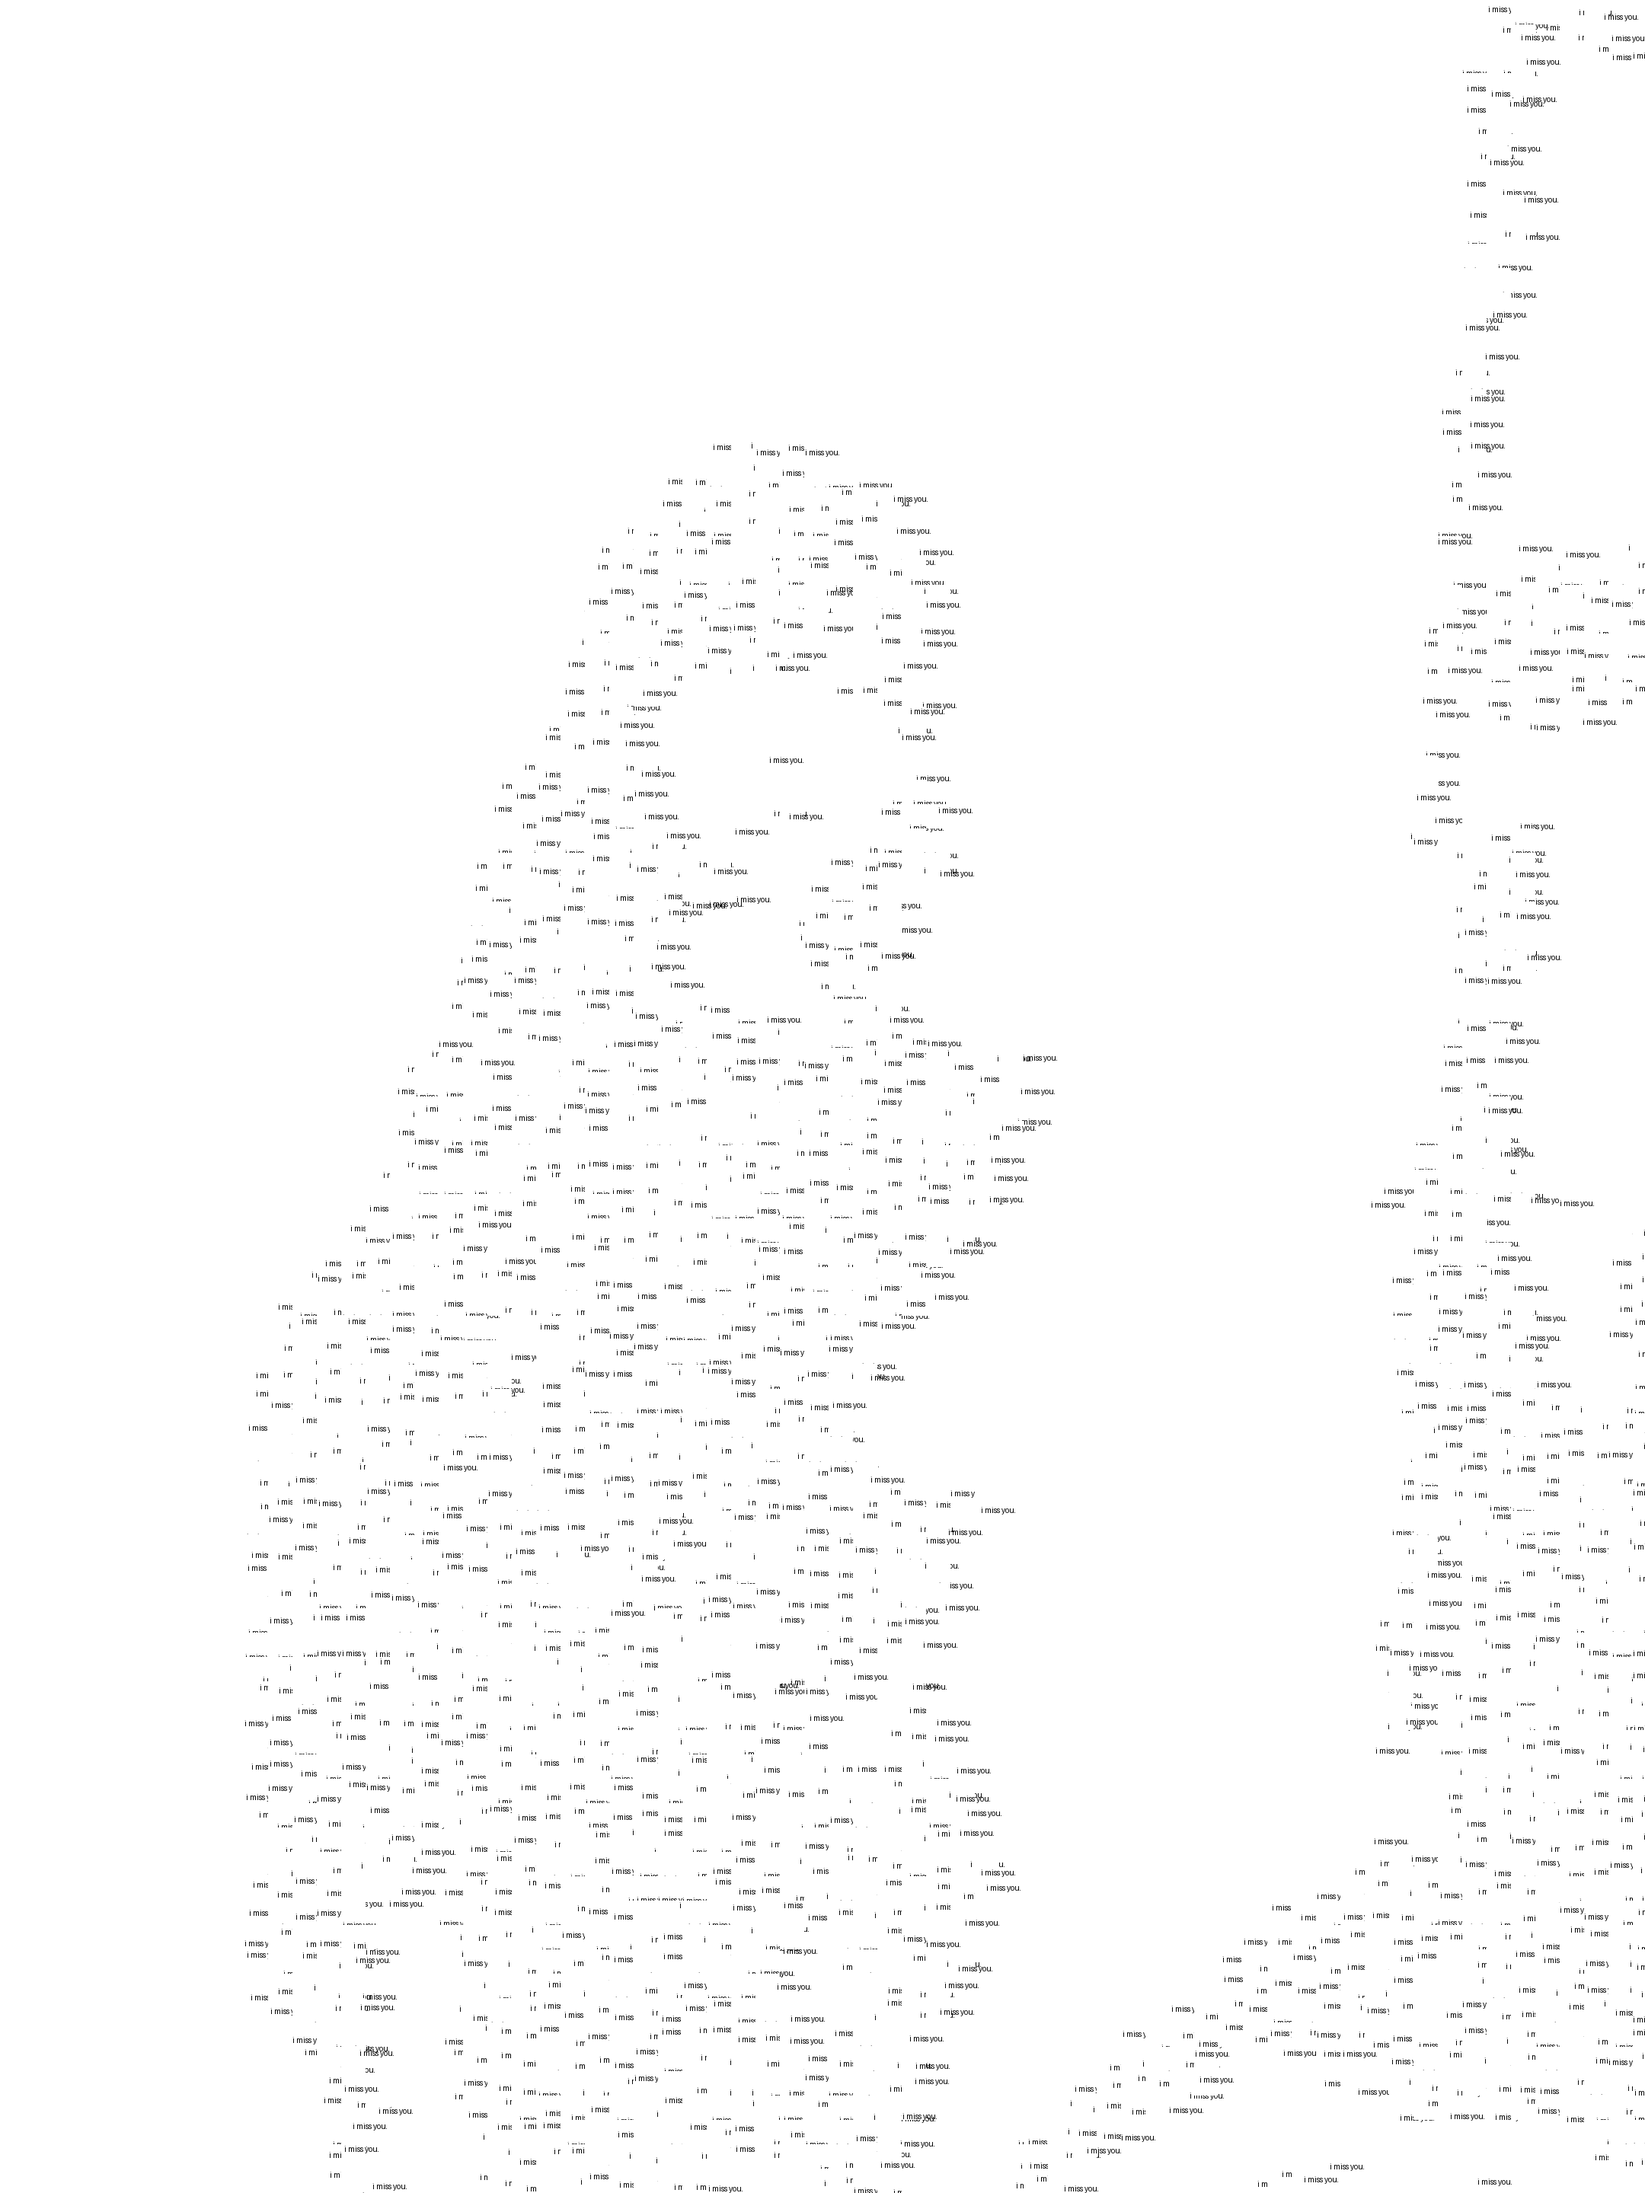
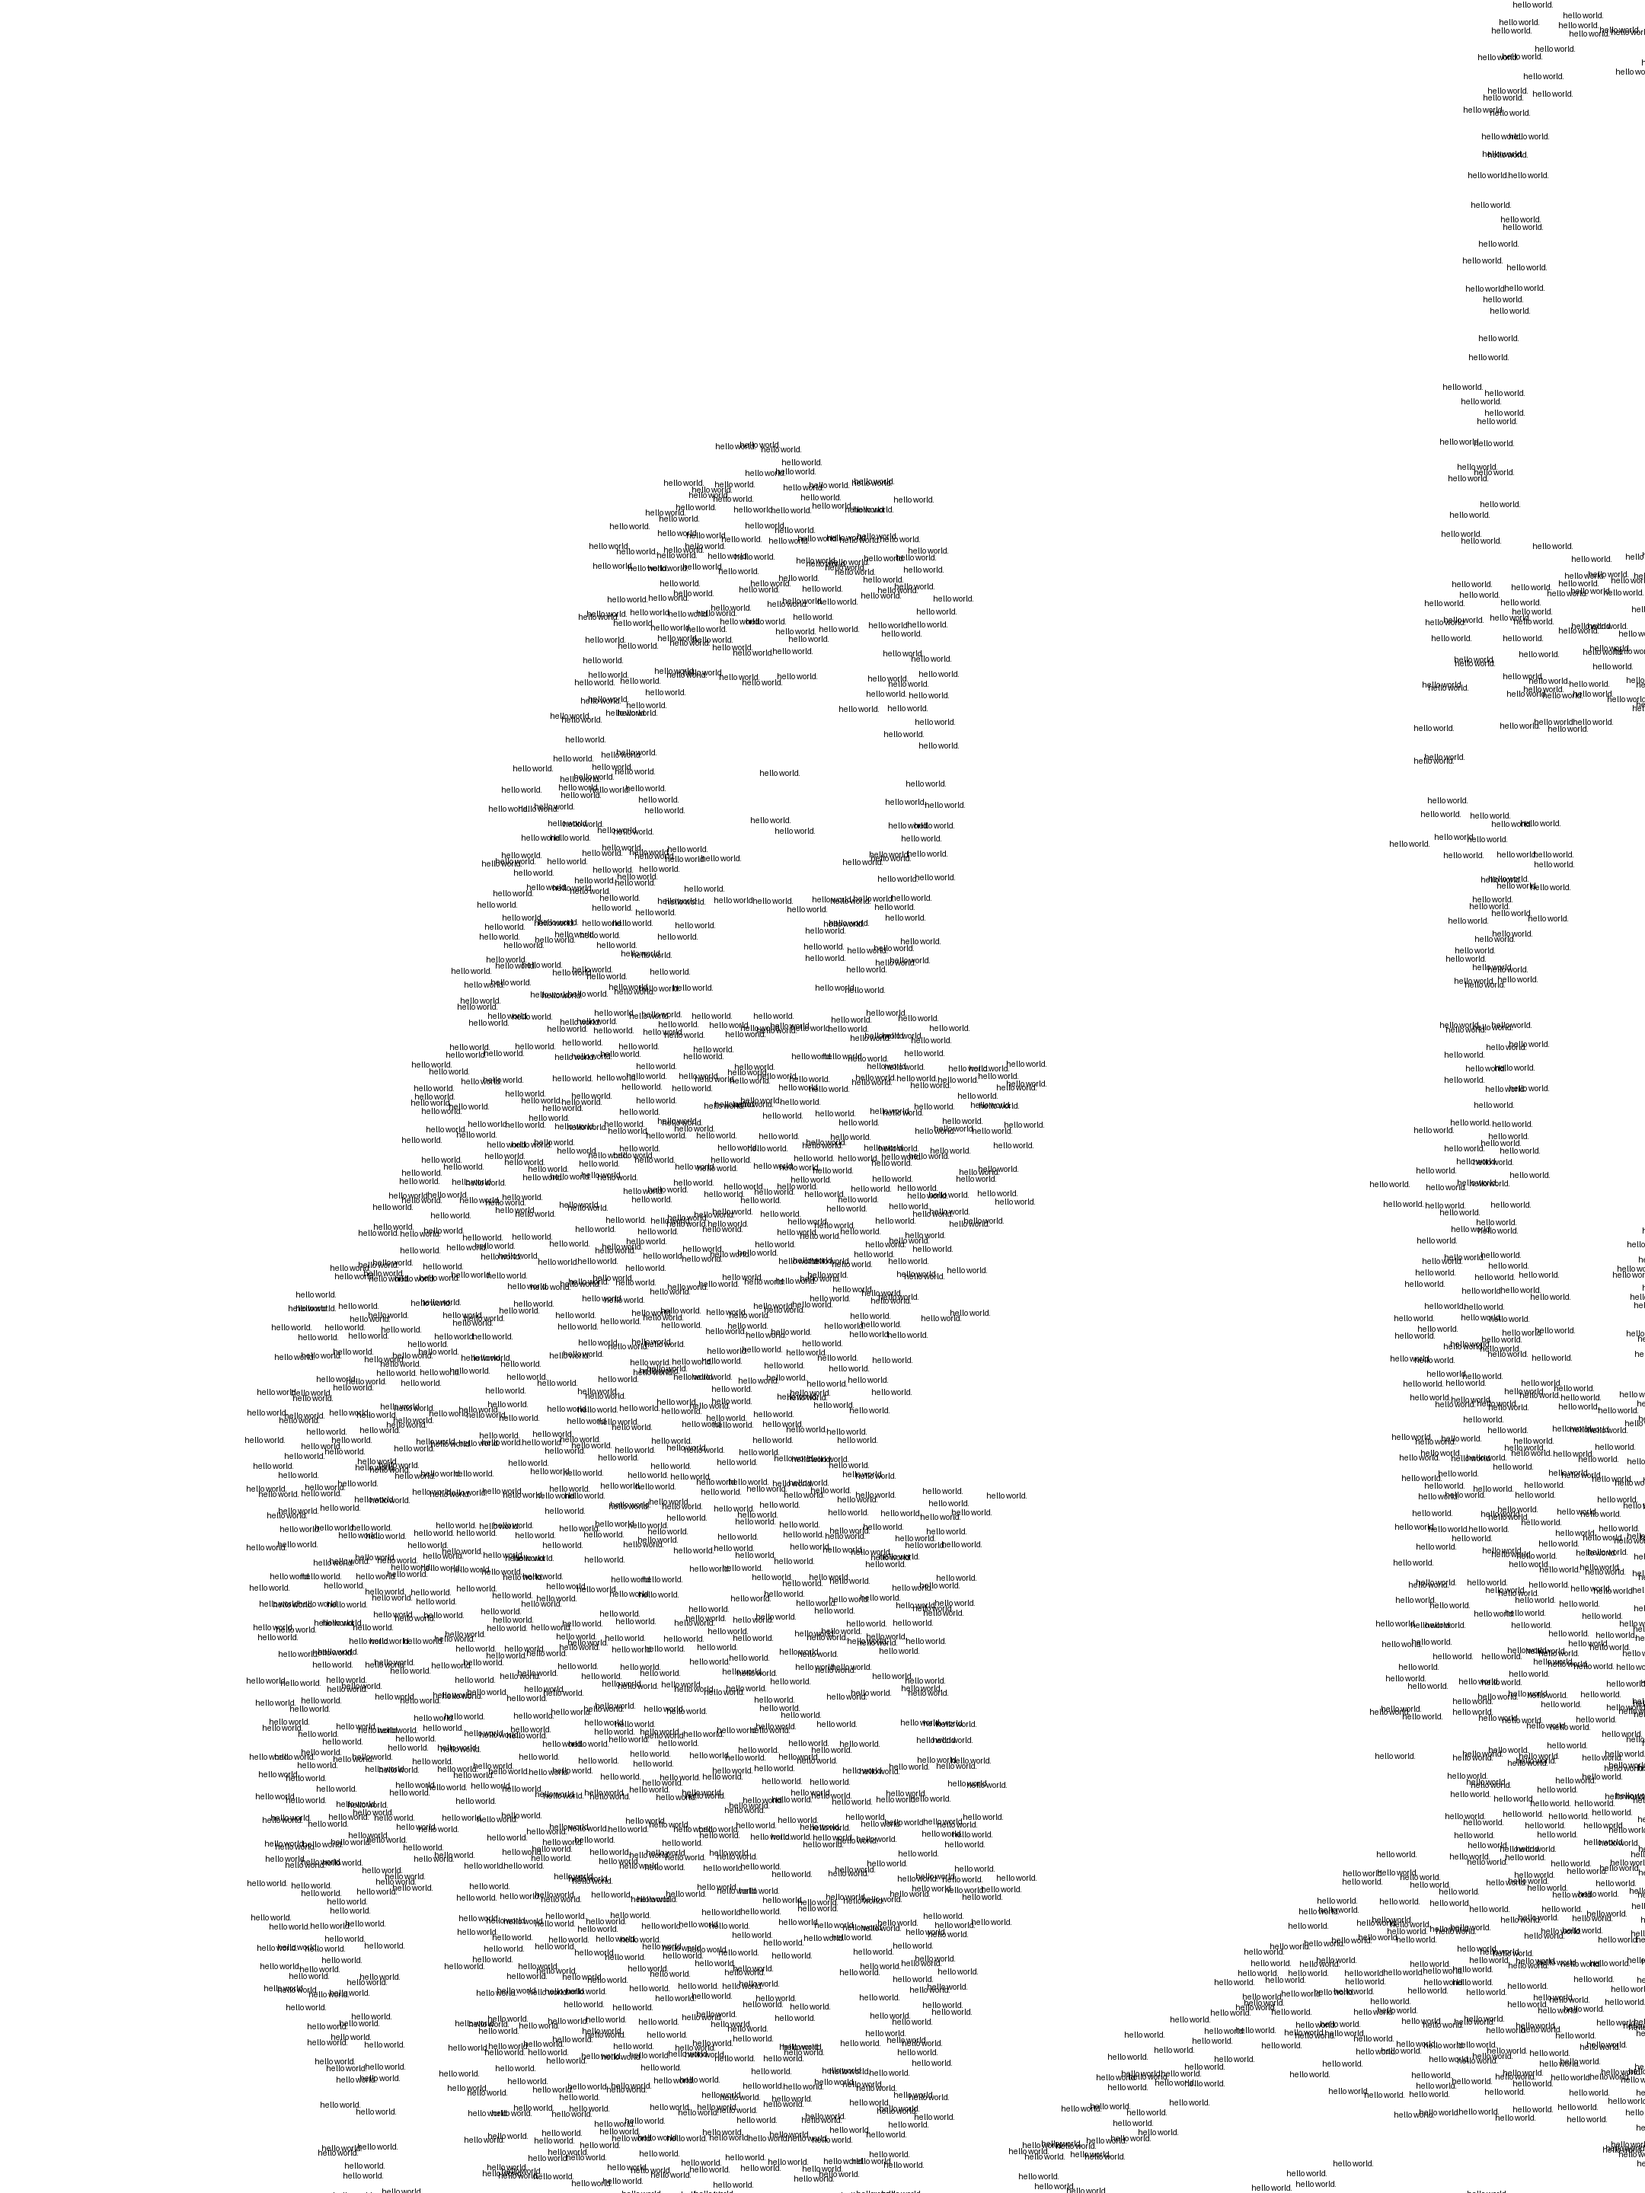
desired result

diff --git a/img_gen.py b/img_gen.py
@@ -36,7 +36,7 @@ cv2.imwrite('bin.png', thresh_img)
 
 imgtowrite = Image.open('bin.png').convert("L")
 idraw = ImageDraw.Draw(imgtowrite)
-
+text_positions = []
 for y in range(0, height, block_size):
     for x in range(0, width, block_size):
 
@@ -56,6 +56,9 @@ for y in range(0, height, block_size):
                 continue
             else: 
                 idraw.rectangle([(x, y), (x_end-1, y_end-1)], fill=255)
-                idraw.text(pos, "i miss you.", fill=0)
+                text_positions.append(pos)
+
+for pos in text_positions:
+    idraw.text(pos, "hello world.", fill=0)
 imgtowrite.save('final_result.png')
             
